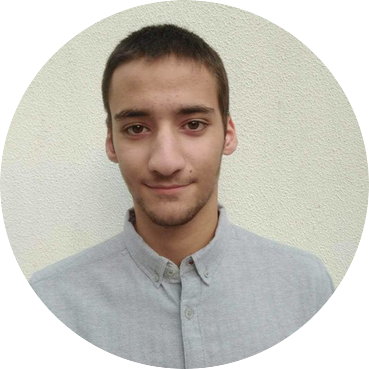
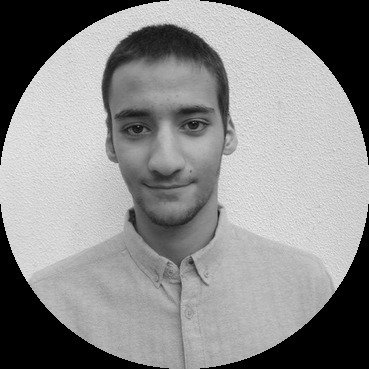
aa

diff --git a/style.css b/style.css
@@ -272,7 +272,8 @@ header {
 .store {
     width: 100%;
     min-height: 30rem;
-    background: url('images/indice.jpeg') center no-repeat;
+    background: url('images/iii.jpeg') center no-repeat;
+    filter: grayscale(100%);
 }
 
 /*Section - Fresh */
